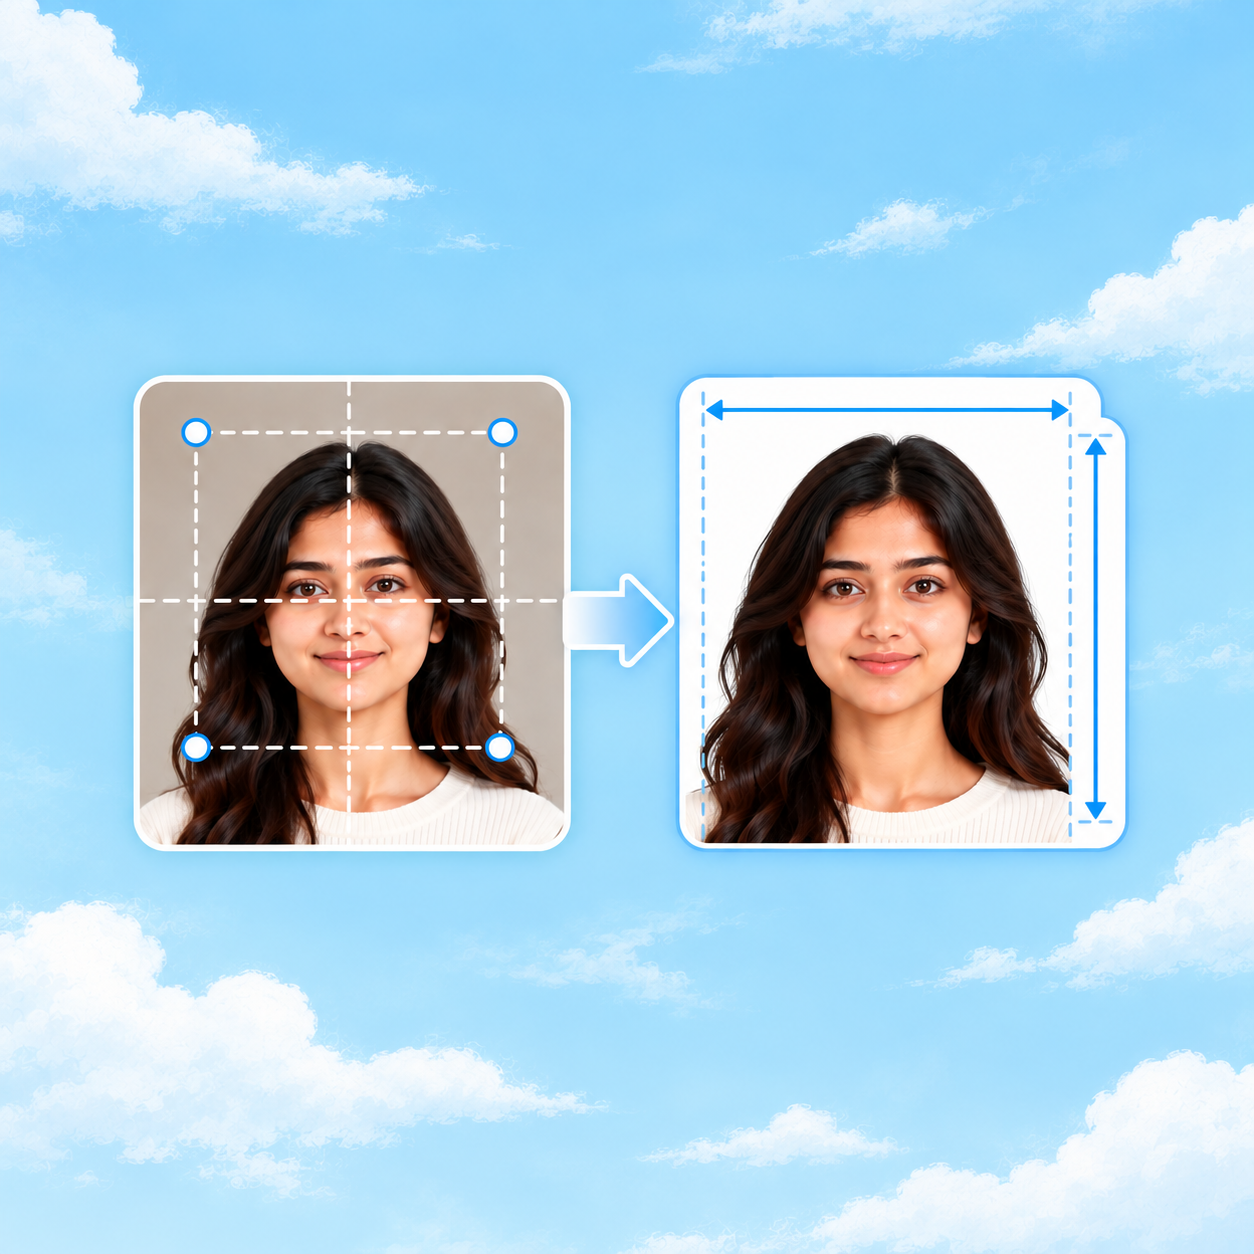
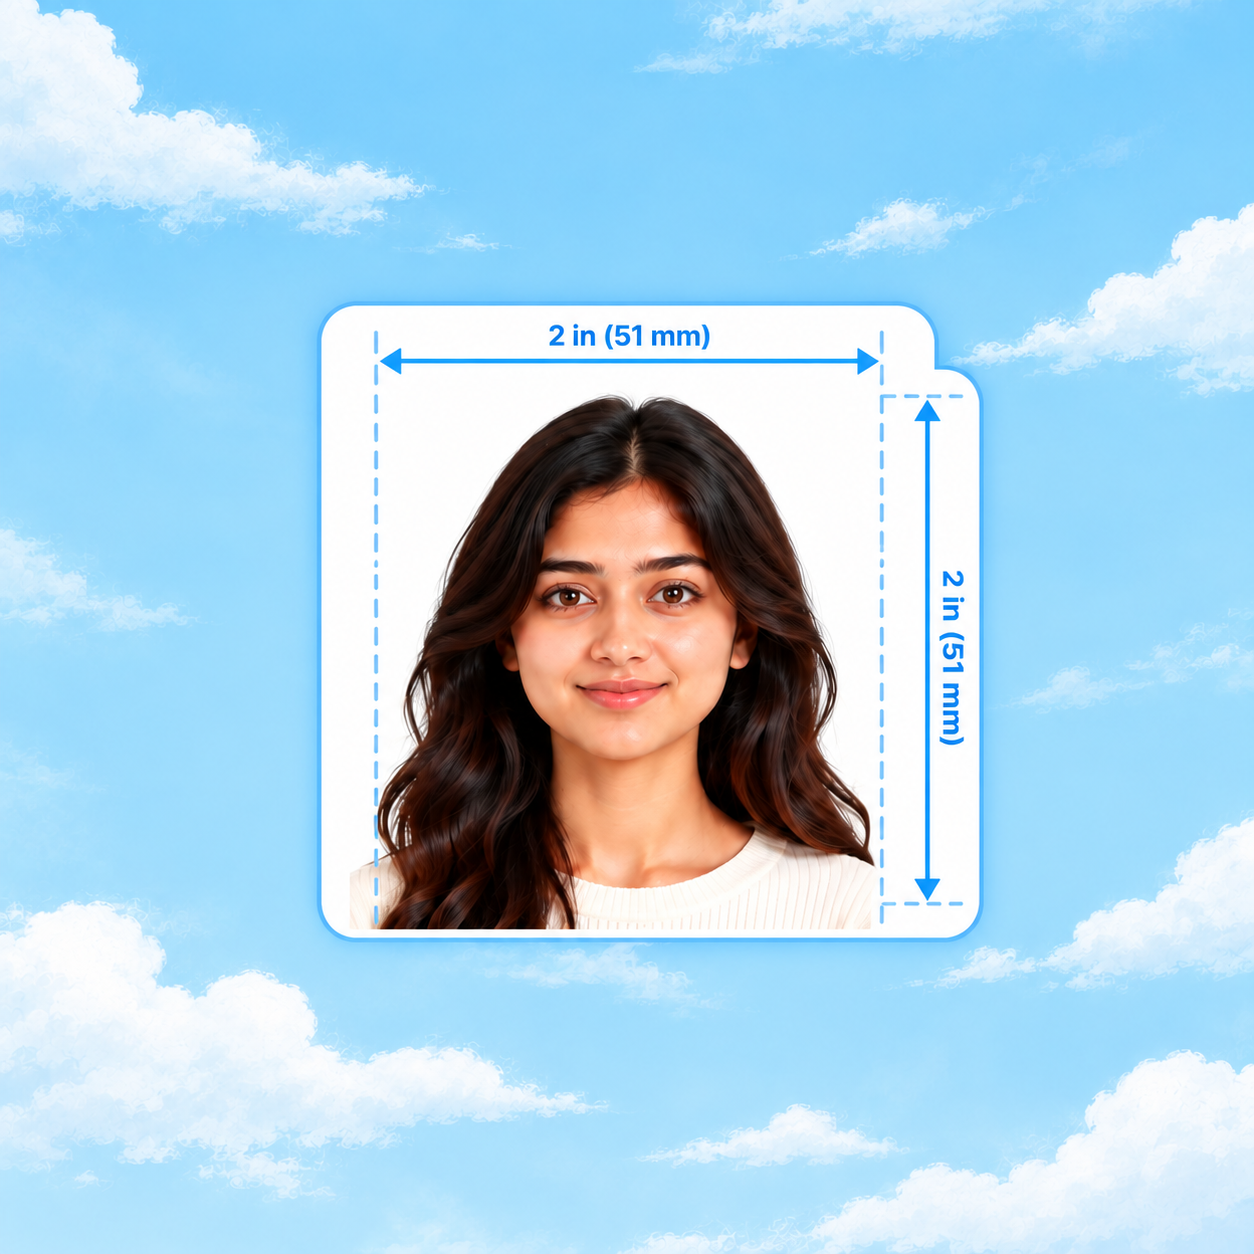
feature v3 done

diff --git a/components/PhotoTips/PhotoTips.scss b/components/PhotoTips/PhotoTips.scss
@@ -13,6 +13,8 @@ $blue-deep: #0087ca;
   width: 100%;
   padding: var(--section-py) var(--section-px);
   background: #ffffff;
+  padding-bottom: 4rem;
+  padding-top: 9rem;
 
   &__container {
     width: min(1080px, 100%);
@@ -172,41 +174,39 @@ $blue-deep: #0087ca;
     width: 100%;
     aspect-ratio: 500 / 550;
     overflow: hidden;
+    border: 1px solid #e9e9e9;
     border-radius: 25px;
-    background: $blue-deep;
+    // background: $blue-deep;
     isolation: isolate;
   }
 
-  &__visual-bg {
-    position: absolute;
-    inset: 0;
-    z-index: 0;
-    background-image: url("/hero-bg.avif");
-    background-size: cover;
-    background-position: center;
-    background-repeat: no-repeat;
-  }
+  // &__visual-bg {
+  //   position: absolute;
+  //   inset: 0;
+  //   z-index: 0;
+  //   background-image: url("/hero-bg.avif");
+  //   background-size: cover;
+  //   background-position: center;
+  //   background-repeat: no-repeat;
+  // }
 
-  &__visual-grain {
-    position: absolute;
-    inset: -50%;
-    z-index: 1;
-    pointer-events: none;
-    opacity: 0.16;
-    background-image: url("/hero-grain.png");
-    background-repeat: repeat;
-    background-size: 280px 280px;
-  }
+  // &__visual-grain {
+  //   position: absolute;
+  //   inset: -50%;
+  //   z-index: 1;
+  //   pointer-events: none;
+  //   opacity: 0.16;
+  //   background-image: url("/hero-grain.png");
+  //   background-repeat: repeat;
+  //   background-size: 280px 280px;
+  // }
 
-  // One image per tip, stacked; only the active one is visible.
-  &__image {
+  // One slide per tip, stacked; only the active one is visible.
+  &__slide {
     position: absolute;
     inset: 0;
     z-index: 2;
-    display: block;
-    width: 100%;
-    height: 100%;
-    object-fit: cover;
+    overflow: hidden;
     opacity: 0;
     transform: scale(1.04);
     pointer-events: none;
@@ -219,9 +219,38 @@ $blue-deep: #0087ca;
       transform: none;
     }
   }
+
+  // The whole picture, never cropped: full width, centred, at its own height.
+  // Its top and bottom edges fade into the sky fill behind it.
+  &__image {
+    position: absolute;
+    left: 0;
+    top: 50%;
+    display: block;
+    width: 100%;
+    height: auto;
+    transform: translateY(-50%);
+    mask-image: linear-gradient(to bottom, transparent 0, #000 8%, #000 92%, transparent 100%);
+  }
+}
+
+// Pale sky behind a picture, in the space its shape does not cover.
+$sky-fill: linear-gradient(180deg, #d9edfb 0%, #eaf5fd 50%, #d9edfb 100%);
+
+.tips__slide {
+  background: $sky-fill;
+}
+
+.tips__inline-visual {
+  background: $sky-fill;
 }
 
 // Responsive ------------------------------------------------------------------
+// The picture inside each accordion item, only shown on small screens.
+.tips__inline-visual {
+  display: none;
+}
+
 @media (max-width: 900px) {
   .tips {
 
@@ -231,13 +260,35 @@ $blue-deep: #0087ca;
       gap: 40px;
     }
 
+    // The side picture is replaced by one inside each open item.
     &__visual {
-      max-width: 520px;
-      margin: 0 auto;
+      display: none;
     }
 
     &__answer-inner p {
       padding-right: 44px;
+    }
+  }
+
+  .tips__inline-visual {
+    display: block;
+    width: 100%;
+    position: relative;
+    max-width: 420px;
+    margin: 0 0 28px;
+    aspect-ratio: 500 / 550;
+    overflow: hidden;
+    border-radius: 20px;
+
+    img {
+      position: absolute;
+      left: 0;
+      top: 50%;
+      display: block;
+      width: 100%;
+      height: auto;
+      transform: translateY(-50%);
+      mask-image: linear-gradient(to bottom, transparent 0, #000 8%, #000 92%, transparent 100%);
     }
   }
 }
@@ -262,7 +313,7 @@ $blue-deep: #0087ca;
 @media (prefers-reduced-motion: reduce) {
   .tips__answer,
   .tips__icon,
-  .tips__image {
+  .tips__slide {
     transition: none;
   }
 }

diff --git a/components/PhotoTips/PhotoTips.tsx b/components/PhotoTips/PhotoTips.tsx
@@ -13,7 +13,7 @@ const tips = [
     title: "Consider the distance",
     description:
       "Keep your front-facing camera 16–20 inch (40–50 cm) away from the face. For rear cameras, keep a 4–6 foot (1–2 meter) distance.",
-    image: "/photo-tips/distance.png",
+    image: "/photo1.png",
     alt: "Phone held at arm's length from the face",
   },
   {
@@ -140,6 +140,13 @@ export default function PhotoTips() {
                   >
                     <div className="tips__answer-inner">
                       <p>{tip.description}</p>
+
+                      {/* On small screens the picture opens with its tip,
+                          instead of sitting below the whole list. */}
+                      <div className="tips__inline-visual">
+                        {/* eslint-disable-next-line @next/next/no-img-element */}
+                        <img src={tip.image} alt={tip.alt} loading="lazy" />
+                      </div>
                     </div>
                   </div>
                 </div>
@@ -151,16 +158,21 @@ export default function PhotoTips() {
             <div className="tips__visual-bg" />
             <div className="tips__visual-grain" />
             {tips.map((tip, index) => (
-              // eslint-disable-next-line @next/next/no-img-element
-              <img
+              <div
                 key={tip.number}
-                className={`tips__image${
-                  activeIndex === index ? " tips__image--active" : ""
+                className={`tips__slide${
+                  activeIndex === index ? " tips__slide--active" : ""
                 }`}
-                src={tip.image}
-                alt={tip.alt}
                 aria-hidden={activeIndex !== index}
-              />
+              >
+                {/* eslint-disable-next-line @next/next/no-img-element */}
+                <img
+                  className="tips__image"
+                  src={tip.image}
+                  alt={tip.alt}
+                  loading="lazy"
+                />
+              </div>
             ))}
           </motion.div>
         </motion.div>

diff --git a/components/HowItWorks/HowItWorks.scss b/components/HowItWorks/HowItWorks.scss
@@ -18,6 +18,7 @@ $card-pad: clamp(1.25rem, 0.9rem + 1.6vw, 2rem);
   width: 100%;
   background: white;
   padding: var(--section-py) var(--section-px);
+  padding-bottom: 3rem;
 
   &__inner {
     width: 100%;
@@ -108,7 +109,7 @@ $card-pad: clamp(1.25rem, 0.9rem + 1.6vw, 2rem);
     background:
       radial-gradient(circle at top left, rgba(255, 255, 255, 0.4) 0%, transparent 55%),
       radial-gradient(circle at bottom right, rgba(255, 255, 255, 0.5) 0%, transparent 55%),
-      #131313;
+      #2b97f0;
   }
 
   &__card-title {

diff --git a/components/Features/Features.scss b/components/Features/Features.scss
@@ -12,6 +12,7 @@ $blue-deep: #0087ca;
   width: 100%;
   box-sizing: border-box;
   padding: var(--section-py) var(--section-px);
+  padding-bottom: 0px;
   display: flex;
   justify-content: center;
   overflow: hidden;

diff --git a/components/Pricing/Pricing.scss b/components/Pricing/Pricing.scss
@@ -12,6 +12,7 @@ $blue-deep: #0087ca;
   width: 100%;
   padding: var(--section-py) var(--section-px);
   background: white;
+  padding-bottom: 3rem;
 
   &__container {
     width: min(900px, 100%);

diff --git a/components/Features/Features.tsx b/components/Features/Features.tsx
@@ -77,7 +77,7 @@ const features = [
       "Digital Download",
       "Home or Shop Printing",
     ],
-    image: "/features/card4.png",
+    image: "/fea4.png",
     icon: PrinterIcon,
   },
 ];

diff --git a/components/Review/Review.scss b/components/Review/Review.scss
@@ -24,6 +24,7 @@ $blue-deep: #0087ca;
   width: 100%;
   box-sizing: border-box;
   padding: var(--section-py) var(--section-px);
+  padding-bottom: 3rem;
   background: white;
 
   &__container {
